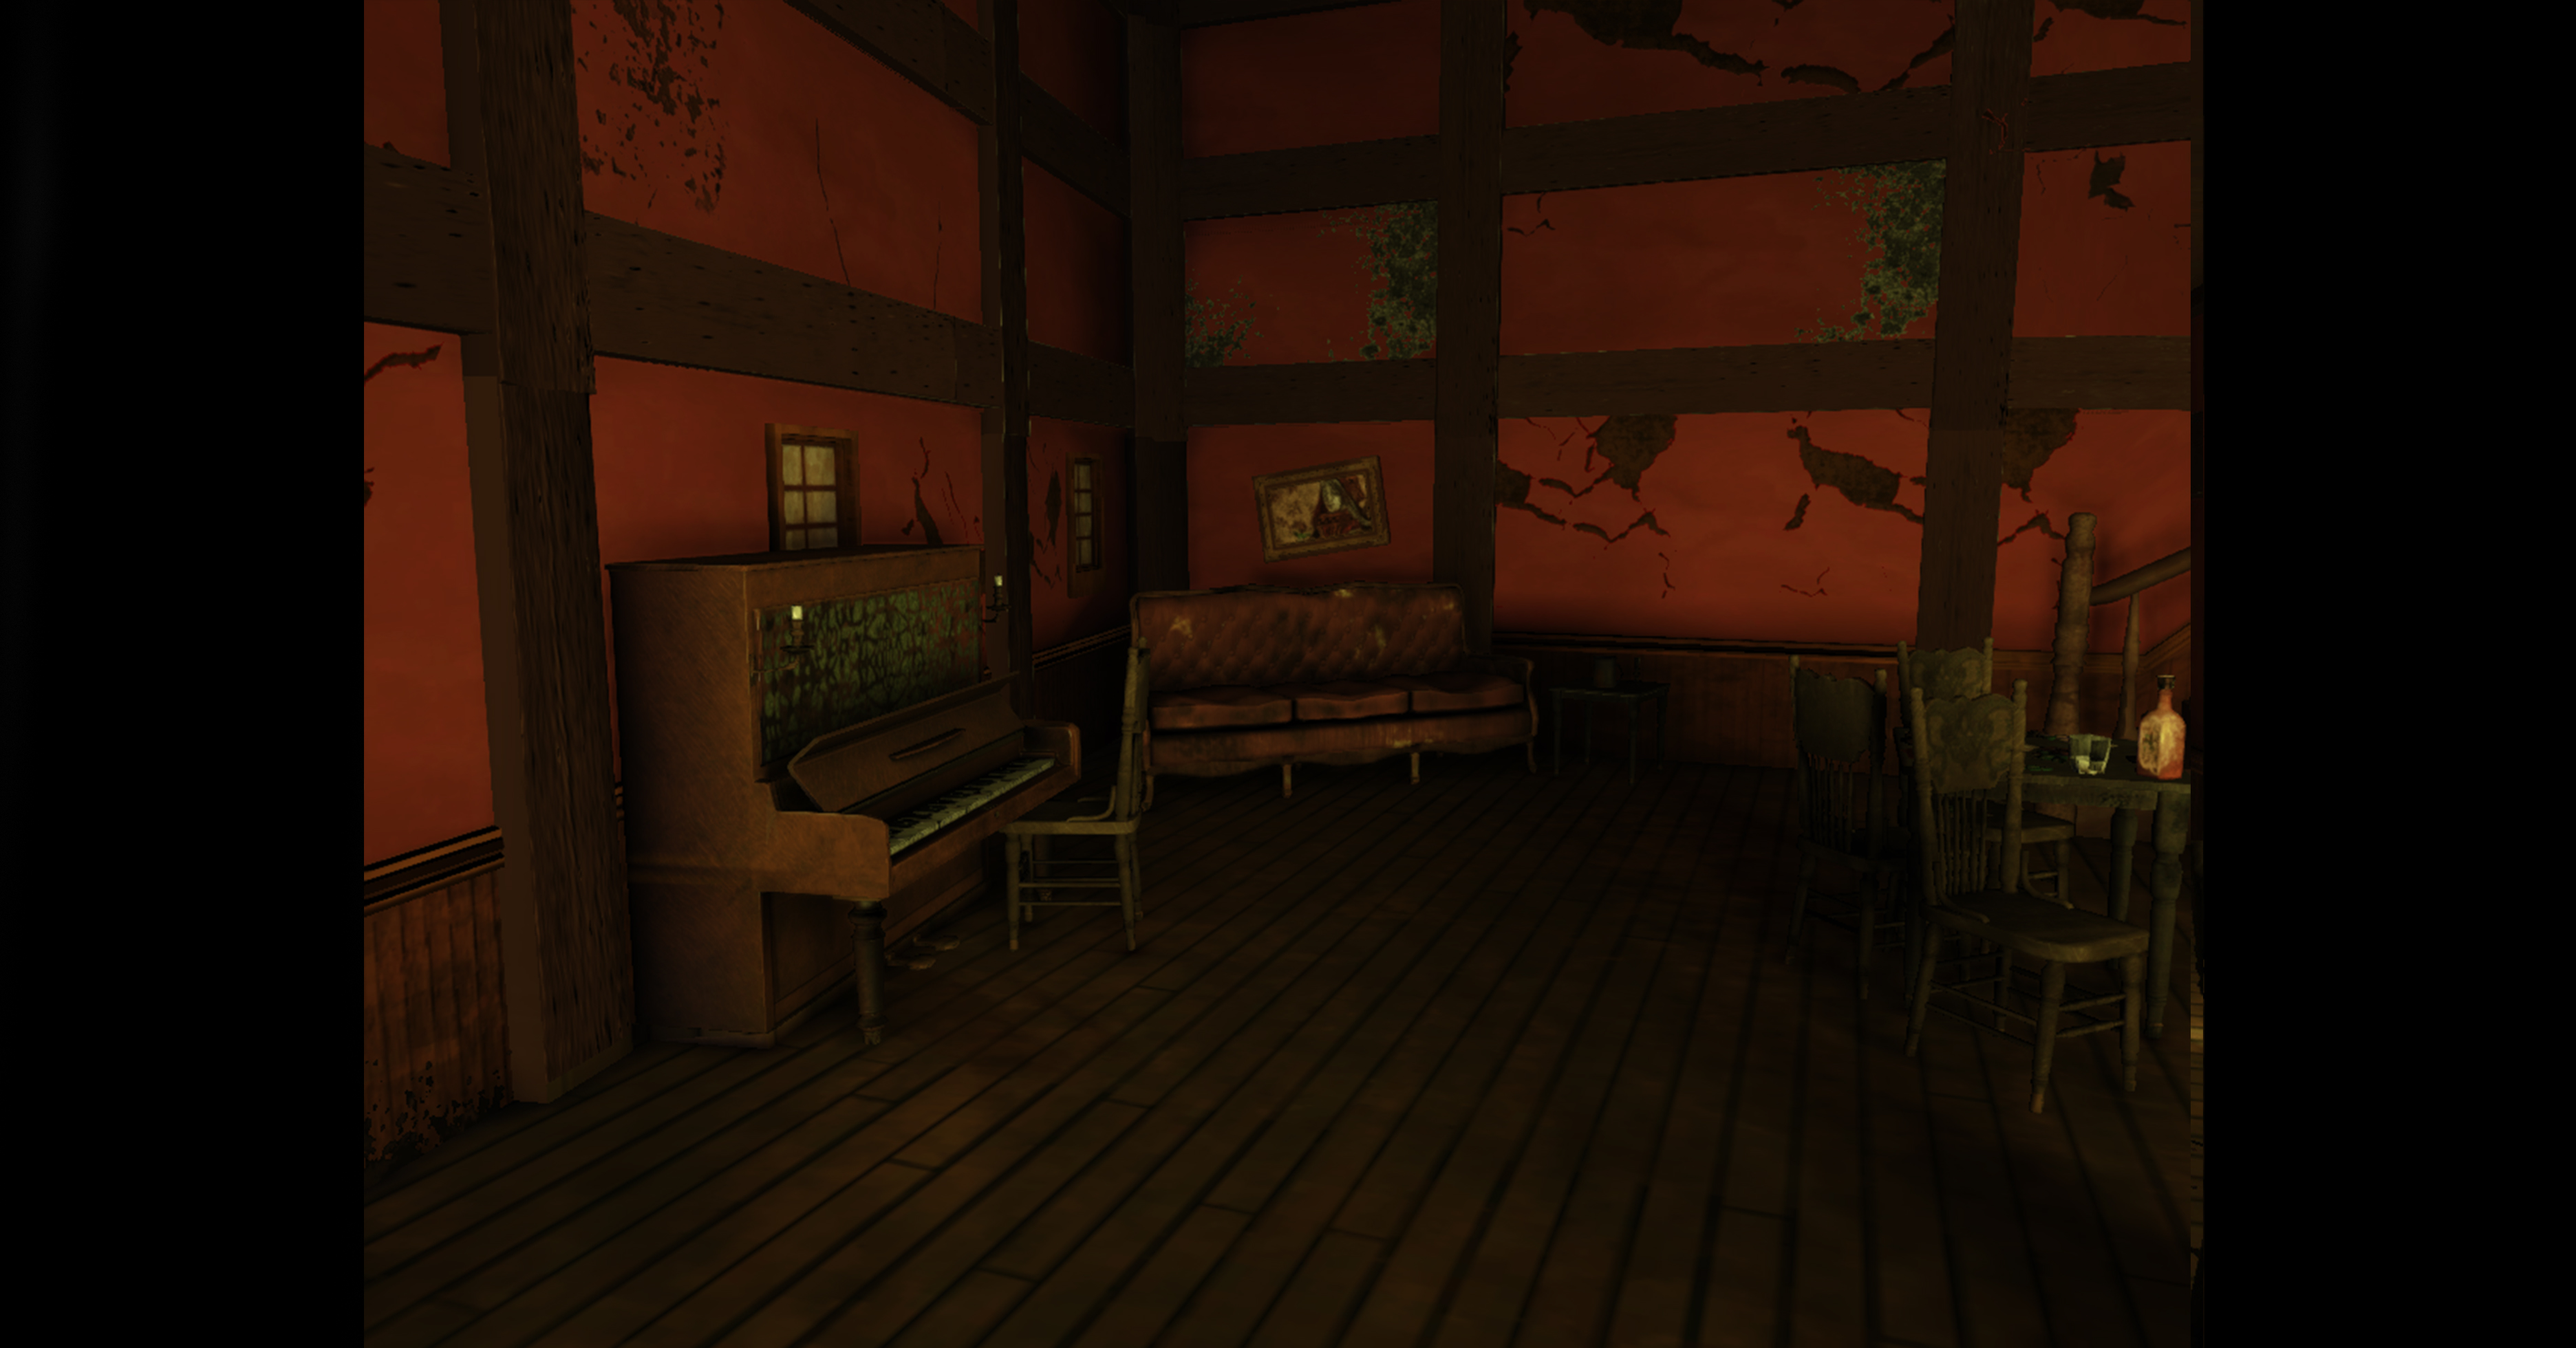
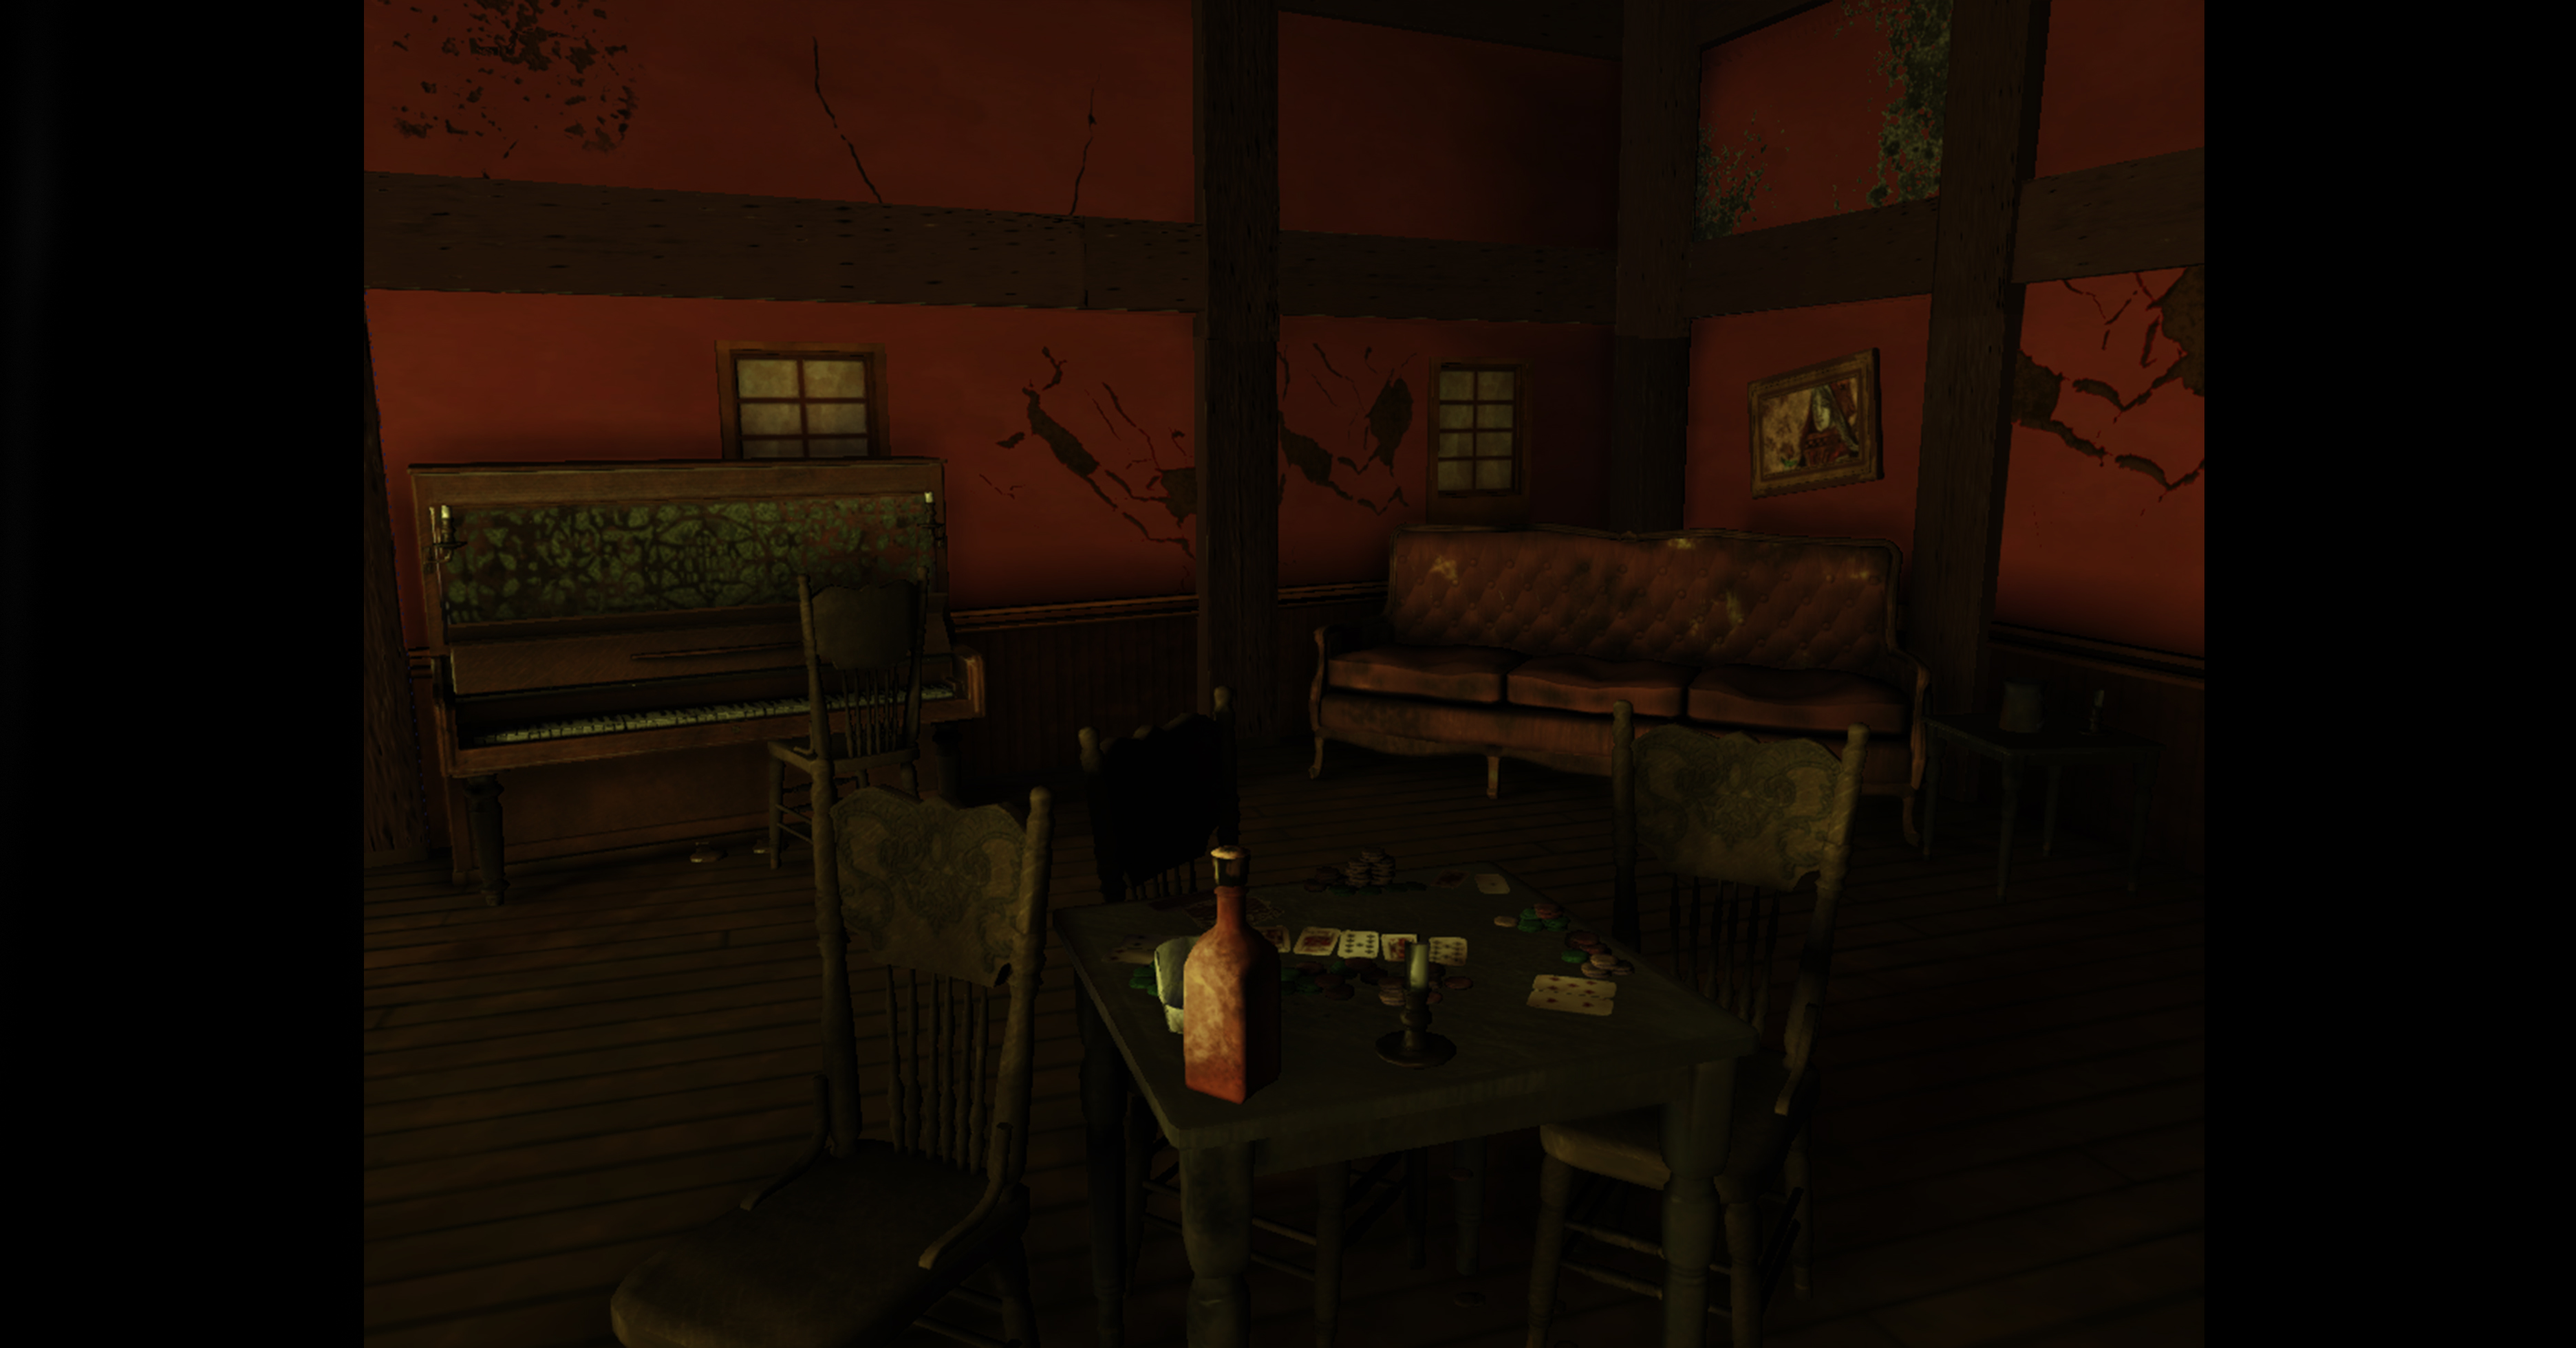
[Update Images]

Changed region(s): [[0.125, 0.0, 0.875, 1.0], [0.2188, 0.9959, 0.2812, 1.0], [0.5938, 0.7158, 0.625, 0.7469]]

diff --git a/3denvironments.html b/3denvironments.html
@@ -1,24 +1,50 @@
 <!DOCTYPE html>
 <html lang="en">
 
-  <head>
-    <Title>3D Environment Page</title>
+	<head>
+    	<Title>3D Environment Page</title>
 		<meta charset='UTF-8'/>
 		<link rel="stylesheet" href="CSS\styles.css"/>
 		<link href="https://fonts.googleapis.com/css?family=Roboto:300,400,500,700" rel="stylesheet">
-  </head>
+	</head>
 	<body>
 		<div id="environmenttitleimage">
 			<h1>The Rebellious Gnome.</h1>
-	</div>
+		</div>
+		<div id="container">
+			<div class="tilecontainer">
+					<div class="overlay"></div>
+					<p class="overlayText">PHOTO 1</p>
+					<img src="links-and-images/environment2.jpg"  alt="Saloon shot showing the door.">
+			</div>
+			<div class="tilecontainer">
+					<div class="overlay"></div>
+					<img src="links-and-images\environment3.jpg"  alt="Poker Game">
+			</div>
+			<div class="tilecontainer">
+					<div class="overlay"></div>
+					<img src="links-and-images/environment4.jpg"  alt="saloon Interior">
+			</div>
+			<div class="tilecontainer">
+					<div class="overlay"></div>
+					<img src="links-and-images\environment7.jpg"  alt="More Saloon Interior">
+			</div>
+			<div class="tilecontainer">
+					<div class="overlay"></div>
+					<img src="links-and-images\environment10.jpg"  alt="Piano">
+			</div>
+			<div class="tilecontainer">	 
+					<div class="overlay"></div>
+					<img src="links-and-images/environment9.jpg"  alt="Upstairs View">
+			</div>
+		</div>
+		<footer>
+			<nav>
+				<li><a href="home_page.html">home</a></li>
+				<li><a href="photography.html">photography</a></li>
+				<li><a href="sketches.html">sketches</a></li>
+				<li><a href="3denvironments.html">3D Environments</a></li>
+			</nav>
+		</footer>
 	</body>
-	<footer>
-		<nav>
-			<li><a href="home_page.html">home</a></li>
-			<li><a href="photography.html">photography</a></li>
-			<li><a href="sketches.html">sketches</a></li>
-			<li><a href="3denvironments.html">3D Environments</a></li>
-		</nav>
-	</footer>
-
 </html>

diff --git a/sketches.html b/sketches.html
@@ -1,26 +1,49 @@
 <!DOCTYPE html>
 <html lang="en">
-<head>
-	<meta charset='UTF-8'/>
-	<title></title>
-	<link rel="stylesheet" href="CSS/styles.css"/>
+	<head>
+		<meta charset='UTF-8'/>
+		<title></title>
+		<link rel="stylesheet" href="CSS/styles.css"/>
 
-</head>
-
-<body>
-	<div id="sketchestitleimage">
-		<h1>The Rebellious Gnome.</h1>	
-	</div>
-</body>
-<footer>
-	<footer>
-		<nav>
-			<li><a href="home_page.html">home</a></li>
-			<li><a href="photography.html">photography</a></li>
-			<li><a href="sketches.html">sketches</a></li>
-			<li><a href="3denvironments.html">3D Environments</a></li>
-		</nav>
-	</footer>
-
-</footer>
+	</head>
+	<body>
+		<div id="sketchestitleimage">
+			<h1>The Rebellious Gnome.</h1>	
+		</div>
+		<div id="container">
+			<div class="tilecontainer">
+					<div class="overlay"></div>
+					<p class="overlayText">PHOTO 1</p>
+					<img src="links-and-images/sketches2.jpg"  alt="first drawing">
+			</div>
+			<div class="tilecontainer">
+					<div class="overlay"></div>
+					<img src="links-and-images/sketches3.jpg"  alt="second drawing">
+			</div>
+			<div class="tilecontainer">
+					<div class="overlay"></div>
+					<img src="links-and-images/sketches4.jpg"  alt="third drawing">
+			</div>
+			<div class="tilecontainer">
+					<div class="overlay"></div>
+					<img src="links-and-images\sketches5.jpg"  alt="fourth drawing">
+			</div>
+			<div class="tilecontainer">
+					<div class="overlay"></div>
+					<img src=""  alt="">
+			</div>
+			<div class="tilecontainer">	 
+					<div class="overlay"></div>
+					<img src=""  alt="">
+			</div>
+		</div>
+		<footer>
+			<nav>
+				<li><a href="home_page.html">home</a></li>
+				<li><a href="photography.html">photography</a></li>
+				<li><a href="sketches.html">sketches</a></li>
+				<li><a href="3denvironments.html">3D Environments</a></li>
+			</nav>
+		</footer>
+	</body>
 </html>

diff --git a/photography.html b/photography.html
@@ -7,13 +7,10 @@
 		<link rel="stylesheet" href="CSS\styles.css"/>
 		<link href="https://fonts.googleapis.com/css?family=Roboto:300,400,500,700" rel="stylesheet">
   </head>
-
-
   <body>
 		<div id="photographytitleimage">
 				<h1>The Rebellious Gnome.</h1>
 		</div>
-		
 		<div id="container">
 			<div class="tilecontainer">
 					<div class="overlay"></div>
@@ -38,10 +35,9 @@
 			</div>
 			<div class="tilecontainer">	 
 					<div class="overlay"></div>
-					<img src="../rebellious-gnome/links-and-images/photography6.jpg"  alt="Abandoned Asylum">
+					<img src="links-and-images/photography6.jpg"  alt="Abandoned Asylum">
 			</div>
 		</div>
-		</body>
 		<footer>
 			<nav>
 				<li><a href="home_page.html">home</a></li>
@@ -50,6 +46,5 @@
 				<li><a href="3denvironments.html">3D Environments</a></li>
 			</nav>
 		</footer>
-
-
+  </body>
 </html>

diff --git a/CSS/styles.css b/CSS/styles.css
@@ -110,7 +110,7 @@
 			width: 100%;
 			height: 100vh;
 			align-items: center;
-			background-image: url(../links-and-images/photography4.jpg);
+			background-image: url(../links-and-images/environment11.jpg);
 			background-size: cover;
 			margin-bottom: 12px;
 			border-radius: 10px;

diff --git a/home_page.html b/home_page.html
@@ -10,6 +10,11 @@
 <body>
 		<h1>The Rebellious Gnome.</h1>
 		<p>Welcome to my site. Please click the buttons below.</p>
+
+
+<button>button</button>
+
+
 </body>
 <footer>
 	<footer>
